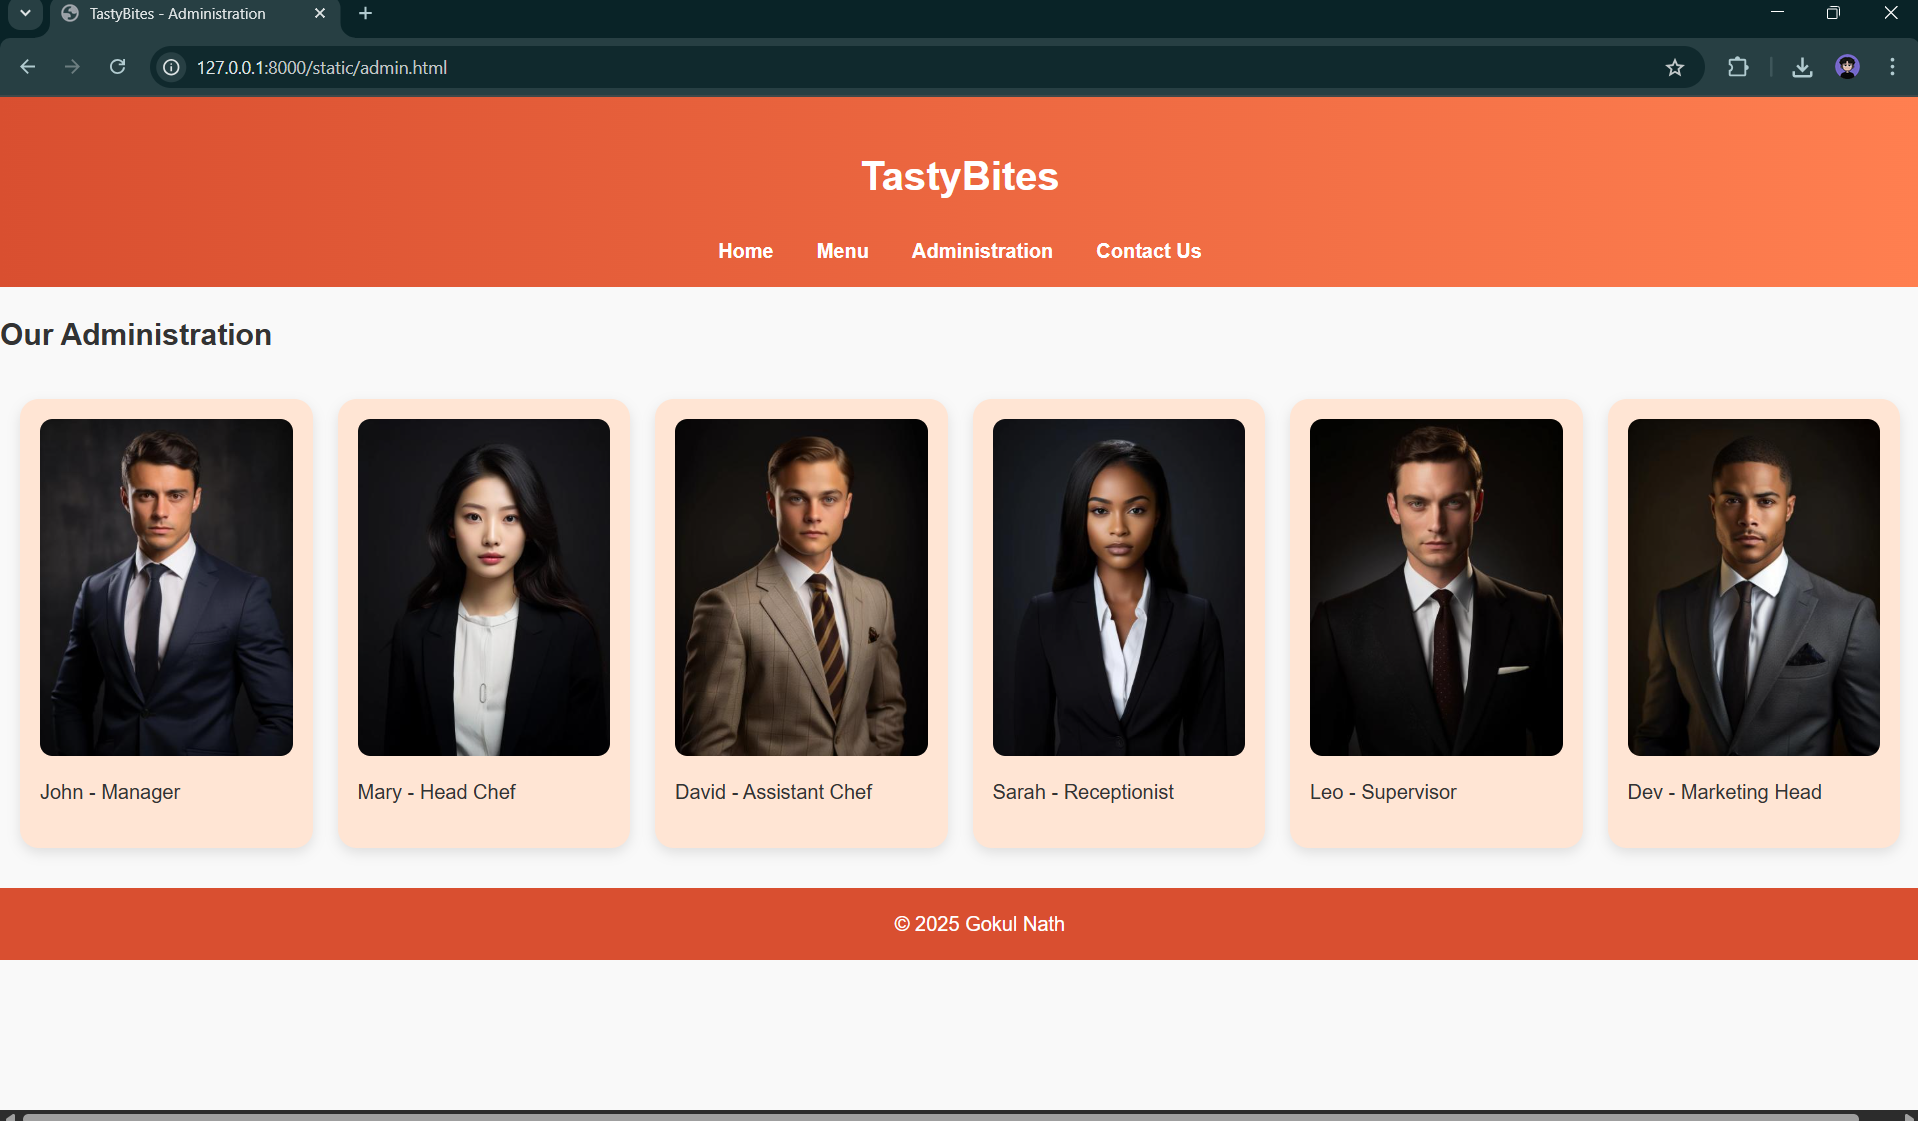
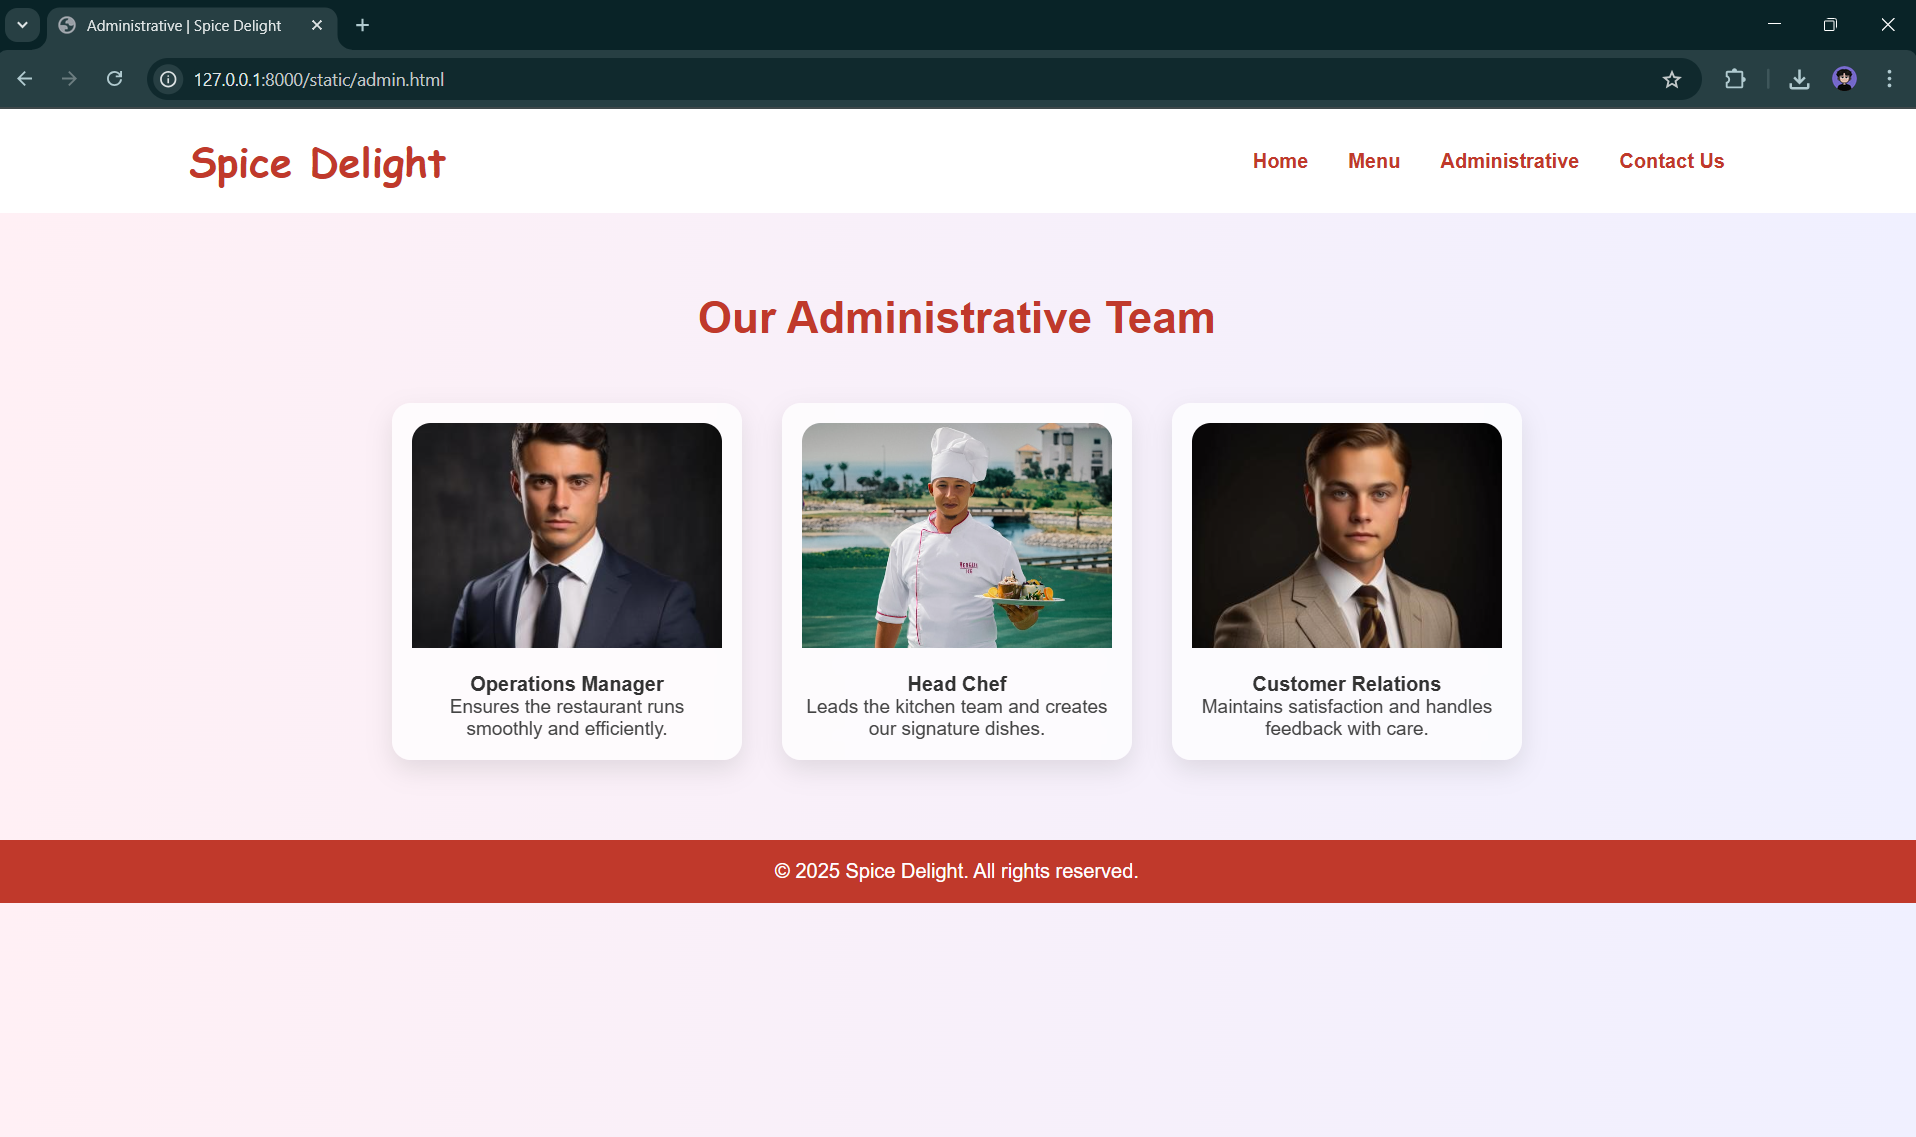
Success

diff --git a/README.md b/README.md
@@ -30,167 +30,224 @@ Publish the website in the given URL.
 ## PROGRAM:
 home.html
 ```
+<!DOCTYPE html>
 <html lang="en">
 <head>
   <meta charset="UTF-8" />
-  <meta name="viewport" content="width=device-width, initial-scale=1.0" />
-  <title>TastyBites - Home</title>
+  <title>Spice Delight | Home</title>
   <link rel="stylesheet" href="style.css" />
+  <link href="https://fonts.googleapis.com/css2?family=Great+Vibes&family=Poppins:wght@300;600&display=swap" rel="stylesheet">
 </head>
 <body>
   <header>
-    <h1>TastyBites</h1>
     <nav>
-      <a href="index.html">Home</a>
-      <a href="menu.html">Menu</a>
-      <a href="admin.html">Administration</a>
-      <a href="contact.html">Contact Us</a>
+      <h1>Spice Delight</h1>
+      <ul>
+        <li><a href="index.html">Home</a></li>
+        <li><a href="menu.html">Menu</a></li>
+        <li><a href="admin.html">Administrative</a></li>
+        <li><a href="contact.html">Contact Us</a></li>
+      </ul>
     </nav>
   </header>
 
-  <main>
-    <section class="banner">
-      <h2>Welcome to TastyBites!</h2>
-      <p>Delicious food served fresh every day.</p>
-    </section>
-
-    <section class="intro">
-      <h3>Why Choose Us?</h3>
-      <p>At TastyBites, we bring you the finest dishes with the freshest ingredients. Experience great taste and hospitality like never before!</p>
-    </section>
-
-    <!-- New Gallery Section -->
-    <section class="gallery">
-      <h3>Our Ambiance</h3>
-      <div class="gallery-grid">
-        <div><img src="/static/theme1.jpg" alt="Cozy Seating Area" /></div>
-        <div><img src="/static/theme2.jpg" alt="Open Kitchen" /></div>
-        <div><img src="/static/theme3.jpg" alt="Delightful Decor" /></div>
-        <div><img src="/static/theme4.jpg" alt="Outdoor Dining" /></div>
-      </div>
-    </section>
-  </main>
-
+  <section class="hero">
+    <div class="hero-text">
+      <h2>Welcome to <span>Spice Delight</span></h2>
+      <p>A Symphony of Spices and Flavors</p>
+      <a href="menu.html" class="button">Explore Menu</a>
+    </div>
+  </section>
   <footer>
-    © 2025 Gokul Nath
+    <p>&copy; 2025 Spice Delight. All rights reserved.</p>
   </footer>
 </body>
 </html>
+
 ```
 menu.html
 ```
+<!DOCTYPE html>
 <html lang="en">
 <head>
   <meta charset="UTF-8" />
-  <meta name="viewport" content="width=device-width, initial-scale=1.0" />
-  <title>TastyBites - Menu</title>
+  <title>Menu | Spice Delight</title>
   <link rel="stylesheet" href="style.css" />
 </head>
 <body>
-  <header>
-    <h1>TastyBites</h1>
-    <nav>
-      <a href="index.html">Home</a>
-      <a href="menu.html">Menu</a>
-      <a href="admin.html">Administration</a>
-      <a href="contact.html">Contact Us</a>
-    </nav>
-  </header>
+  <div class="container">
+    <header>
+      <nav>
+        <h1>Spice Delight</h1>
+        <ul>
+          <li><a href="index.html">Home</a></li>
+          <li><a href="menu.html">Menu</a></li>
+          <li><a href="admin.html">Administrative</a></li>
+          <li><a href="contact.html">Contact Us</a></li>
+        </ul>
+      </nav>
+    </header>
 
-  <main>
-    <h2>Our Menu</h2>
-    <div class="menu-grid">
-      <div class="item"><img src="/static/burger.jpg" alt="Burger" /><p>Burger - $5</p></div>
-      <div class="item"><img src="/static/pizza.jpg" alt="Pizza" /><p>Pizza - $8</p></div>
-      <div class="item"><img src="/static/pasta.jpg" alt="Pasta" /><p>Pasta - $7</p></div>
-      <div class="item"><img src="/static/salad.jpg" alt="Salad" /><p>Salad - $4</p></div>
-      <div class="item"><img src="/static/fries.jpg" alt="Fries" /><p>Fries - $3</p></div>
-      <div class="item"><img src="/static/sandwich.jpg" alt="Sandwich" /><p>Sandwich - $6</p></div>
-      <div class="item"><img src="/static/steak.jpg" alt="Steak" /><p>Steak - $12</p></div>
-      <div class="item"><img src="/static/soup.jpg" alt="Soup" /><p>Soup - $4</p></div>
-      <div class="item"><img src="/static/dosa.jpg" alt="Dosa" /><p>Dosa - $5</p></div>
-      <div class="item"><img src="/static/icecream.jpg" alt="Ice Cream" /><p>Ice Cream - $3</p></div>
-      <div class="item"><img src="/static/noodles.jpg" alt="Noodles" /><p>Noodles - $6</p></div>
-      <div class="item"><img src="/static/biryani.jpg" alt="Biryani" /><p>Biryani - $10</p></div>
-    </div>
-  </main>
+    <section class="menu-section">
+      <h2>Our Menu</h2>
+      <div class="menu-cards">
+        <div class="card">
+          <img src="images/butter-chicken.jpg" alt="Butter Chicken" />
+          <h3>Butter Chicken</h3>
+          <p>Delicious and authentic flavor straight from our chef's kitchen.</p>
+        </div>
 
-  <footer>
-    © 2025 Gokul Nath
-  </footer>
+        <div class="card">
+          <img src="images/paneer-tikka.jpg" alt="Paneer Tikka" />
+          <h3>Paneer Tikka</h3>
+          <p>Delicious and authentic flavor straight from our chef's kitchen.</p>
+        </div>
+
+        <div class="card">
+          <img src="images/masala-dosa.jpg" alt="Masala Dosa" />
+          <h3>Masala Dosa</h3>
+          <p>Delicious and authentic flavor straight from our chef's kitchen.</p>
+        </div>
+
+        <div class="card">
+          <img src="images/biryani.jpg" alt="Biryani" />
+          <h3>Biryani</h3>
+          <p>Fragrant basmati rice cooked with tender meat and spices.</p>
+        </div>
+
+        <div class="card">
+          <img src="images/tandoori-chicken.jpg" alt="Tandoori Chicken" />
+          <h3>Tandoori Chicken</h3>
+          <p>Spiced chicken marinated in yogurt and grilled to perfection.</p>
+        </div>
+
+        <div class="card">
+          <img src="images/burger.jpg" alt="Burger" />
+          <h3>Burger</h3>
+          <p>Juicy patty with fresh veggies, sauces, and cheese in a toasted bun.</p>
+        </div>
+
+        <div class="card">
+          <img src="images/pizza.jpg" alt="Pizza" />
+          <h3>Pizza</h3>
+          <p>Cheesy, flavorful pizza loaded with toppings and herbs.</p>
+        </div>
+      </div>
+    </section>
+
+    <footer>
+      <p>&copy; 2025 Spice Delight. All rights reserved.</p>
+    </footer>
+  </div>
 </body>
 </html>
 ```
 admin.html
 ```
+<!DOCTYPE html>
 <html lang="en">
 <head>
   <meta charset="UTF-8" />
-  <meta name="viewport" content="width=device-width, initial-scale=1.0" />
-  <title>TastyBites - Administration</title>
+  <title>Administrative | Spice Delight</title>
   <link rel="stylesheet" href="style.css" />
 </head>
 <body>
   <header>
-    <h1>TastyBites</h1>
     <nav>
-      <a href="index.html">Home</a>
-      <a href="menu.html">Menu</a>
-      <a href="admin.html">Administration</a>
-      <a href="contact.html">Contact Us</a>
+      <h1>Spice Delight</h1>
+      <ul>
+        <li><a href="index.html">Home</a></li>
+        <li><a href="menu.html">Menu</a></li>
+        <li><a href="admin.html">Administrative</a></li>
+        <li><a href="contact.html">Contact Us</a></li>
+      </ul>
     </nav>
   </header>
 
-  <main>
-    <h2>Our Administration</h2>
-    <div class="admin-grid">
-      <div class="admin"><img src="/static/person1.jpg" alt="Admin 1" /><p>John - Manager</p></div>
-      <div class="admin"><img src="/static/person2.jpg" alt="Admin 2" /><p>Mary - Head Chef</p></div>
-      <div class="admin"><img src="/static/person3.jpg" alt="Admin 3" /><p>David - Assistant Chef</p></div>
-      <div class="admin"><img src="/static/person4.jpg" alt="Admin 4" /><p>Sarah - Receptionist</p></div>
-      <div class="admin"><img src="/static/person5.jpg" alt="Admin 5" /><p>Leo - Supervisor</p></div>
-      <div class="admin"><img src="/static/person6.jpg" alt="Admin 6" /><p>Dev - Marketing Head</p></div>
+  <section class="highlight">
+    <h3>Our Administrative Team</h3>
+    <div class="cards">
+      <div class="card">
+        <img src="images/person6.jpg" alt="Operations Manager" />
+        <h4>Operations Manager</h4>
+        <p>Ensures the restaurant runs smoothly and efficiently.</p>
+      </div>
+      <div class="card">
+        <img src="images/person5.jpg" alt="Head Chef" />
+        <h4>Head Chef</h4>
+        <p>Leads the kitchen team and creates our signature dishes.</p>
+      </div>
+      <div class="card">
+         <img src="images/person7.jpg" alt="Customer Relations" />
+        <h4>Customer Relations</h4>
+        <p>Maintains satisfaction and handles feedback with care.</p>
+      </div>
     </div>
-  </main>
+  </section>
 
   <footer>
-    © 2025 Gokul Nath
+    <p>&copy; 2025 Spice Delight. All rights reserved.</p>
   </footer>
 </body>
 </html>
+
 ```
 contact.html
 ```
+<!DOCTYPE html>
 <html lang="en">
 <head>
   <meta charset="UTF-8" />
-  <meta name="viewport" content="width=device-width, initial-scale=1.0" />
-  <title>TastyBites - Contact Us</title>
+  <title>Contact Us | Spice Delight</title>
   <link rel="stylesheet" href="style.css" />
 </head>
 <body>
   <header>
-    <h1>TastyBites</h1>
     <nav>
-      <a href="index.html">Home</a>
-      <a href="menu.html">Menu</a>
-      <a href="admin.html">Administration</a>
-      <a href="contact.html">Contact Us</a>
+      <h1>Spice Delight</h1>
+      <ul>
+        <li><a href="index.html">Home</a></li>
+        <li><a href="menu.html">Menu</a></li>
+        <li><a href="admin.html">Administrative</a></li>
+        <li><a href="contact.html">Contact Us</a></li>
+      </ul>
     </nav>
   </header>
 
-  <main>
-    <h2>Contact Us</h2>
-    <p>📍 123 Food Street, Tindivanam, Tamil Nadu</p>
-    <p>📞 +91 98765 43210</p>
-    <p>✉ tastybites@email.com</p>
-  </main>
+  <section class="highlight">
+    <h3>Contact Us</h3>
+    <div class="cards">
+      <div class="card">
+        <h4>Phone</h4>
+        <p>+91 98765 43210</p>
+      </div>
+      <div class="card">
+        <h4>Email</h4>
+        <p>spicedelight@example.com</p>
+      </div>
+      <div class="card">
+        <h4>Visit Us</h4>
+        <p>123 Spice Street, Chennai, Tamil Nadu</p>
+      </div>
+    </div>
+
+    <div class="feedback-form">
+      <h3>We’d Love Your Feedback</h3>
+      <form action="#" method="POST">
+        <input type="text" name="name" placeholder="Your Name" required />
+        <input type="email" name="email" placeholder="Your Email" required />
+        <textarea name="message" rows="5" placeholder="Your Feedback" required></textarea>
+        <button type="submit">Submit Feedback</button>
+      </form>
+    </div>
+  </section>
 
   <footer>
-    © 2025 Gokul Nath
+    <p>&copy; 2025 Spice Delight. All rights reserved.</p>
   </footer>
 </body>
 </html>
+
 ```
 ## OUTPUT:
 ![alt text](home.png)
